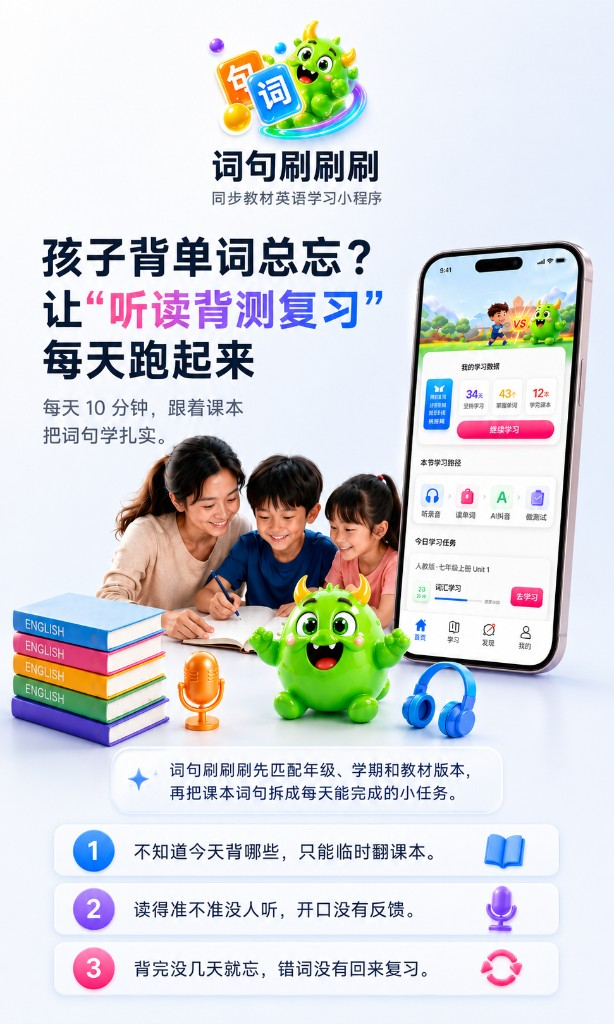
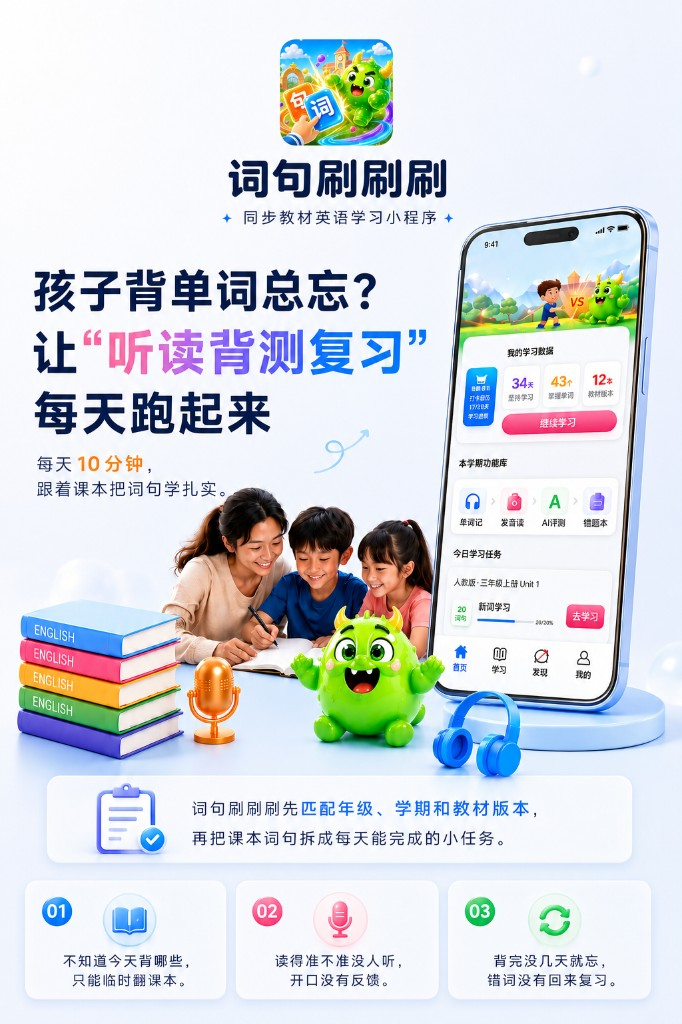
v1.1.8: 新手引导 panel 图 v6 更新

diff --git a/utils/image-host.js b/utils/image-host.js
@@ -86,9 +86,9 @@ const REMOTE_IMAGE_VERSIONS = {
   '/images/home/me-profile-header-monster-v2.png': '20260618-art-v2',
   '/images/home/student-monster-pk-sprite-girl.png': '20260624-pk-vs-nudge-v1',
   '/images/home/student-monster-pk-sprite.png': '20260624-pk-vs-nudge-v1',
-  '/images/onboarding/onboard-panel-01.jpg': '20260626-panel-v5',
-  '/images/onboarding/onboard-panel-02.jpg': '20260626-panel-v5',
-  '/images/onboarding/onboard-panel-03.jpg': '20260626-panel-v5',
+  '/images/onboarding/onboard-panel-01.jpg': '20260626-panel-v6',
+  '/images/onboarding/onboard-panel-02.jpg': '20260626-panel-v6',
+  '/images/onboarding/onboard-panel-03.jpg': '20260626-panel-v6',
   '/images/plan/plan-mascot-easy.png': '20260620-plan-mascot-color-v7',
   '/images/plan/plan-mascot-hard.png': '20260620-plan-mascot-color-v7',
   '/images/plan/plan-mascot-normal.png': '20260620-plan-mascot-color-v7',
